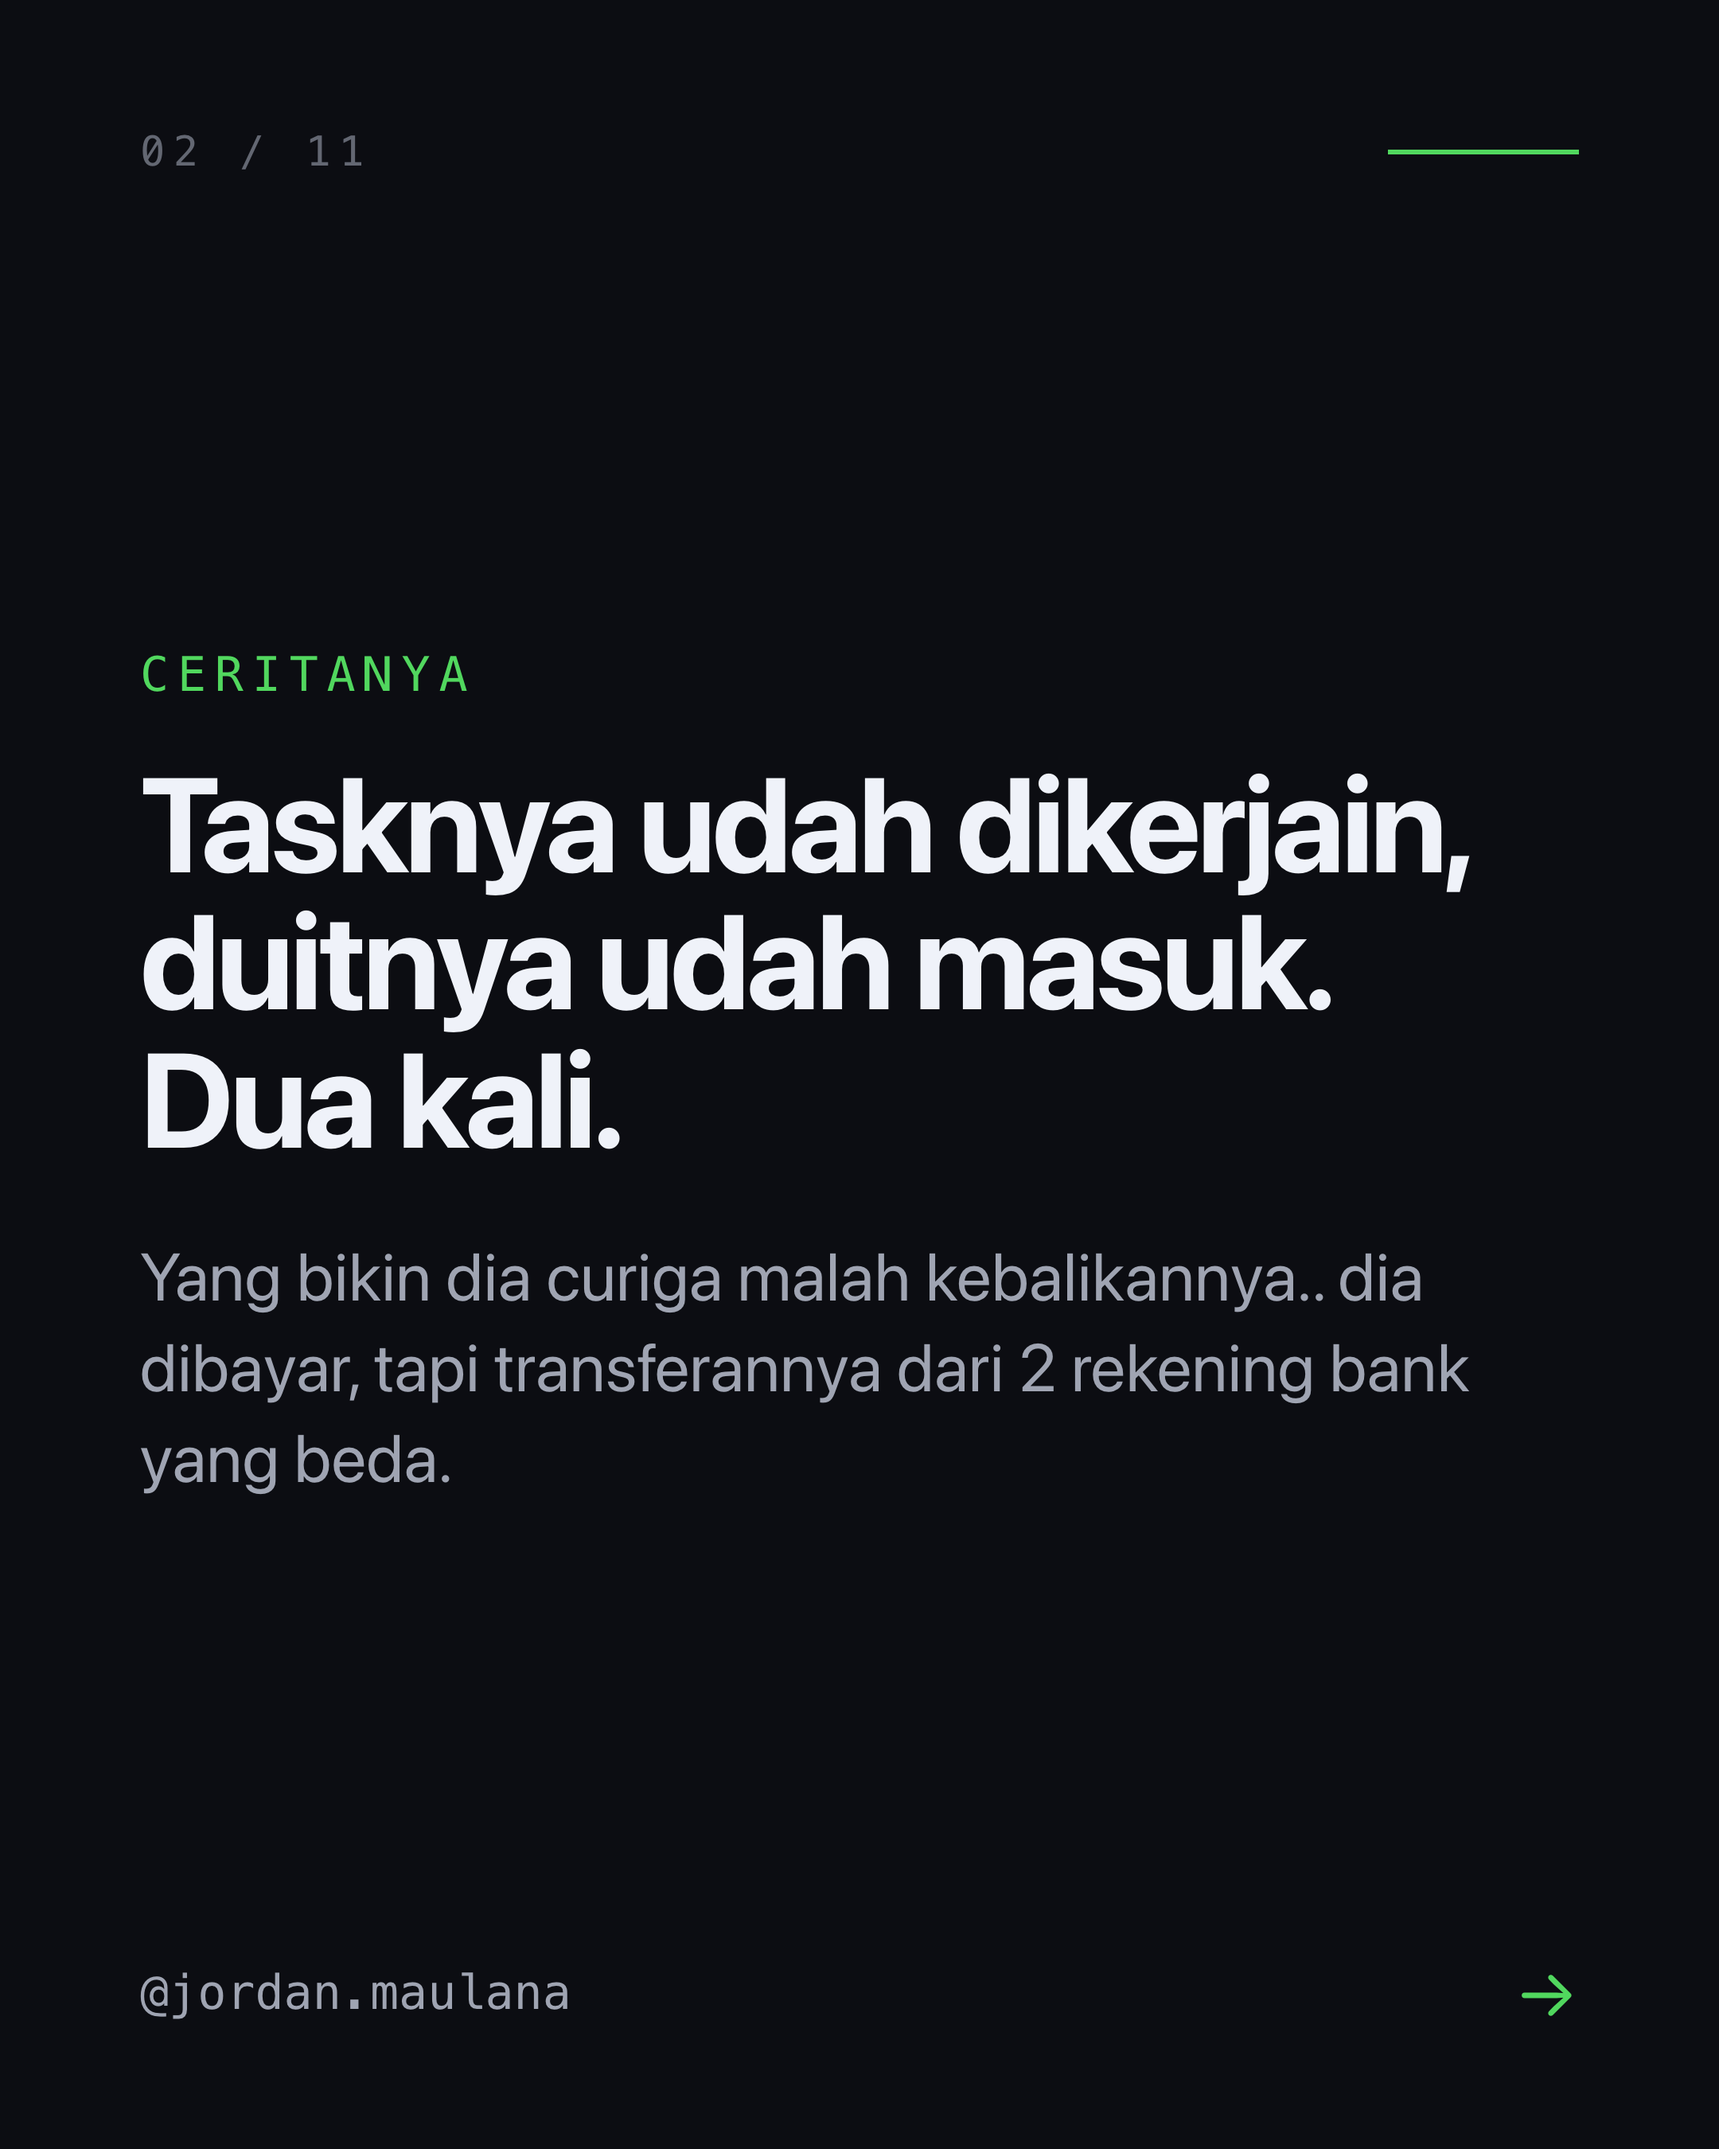
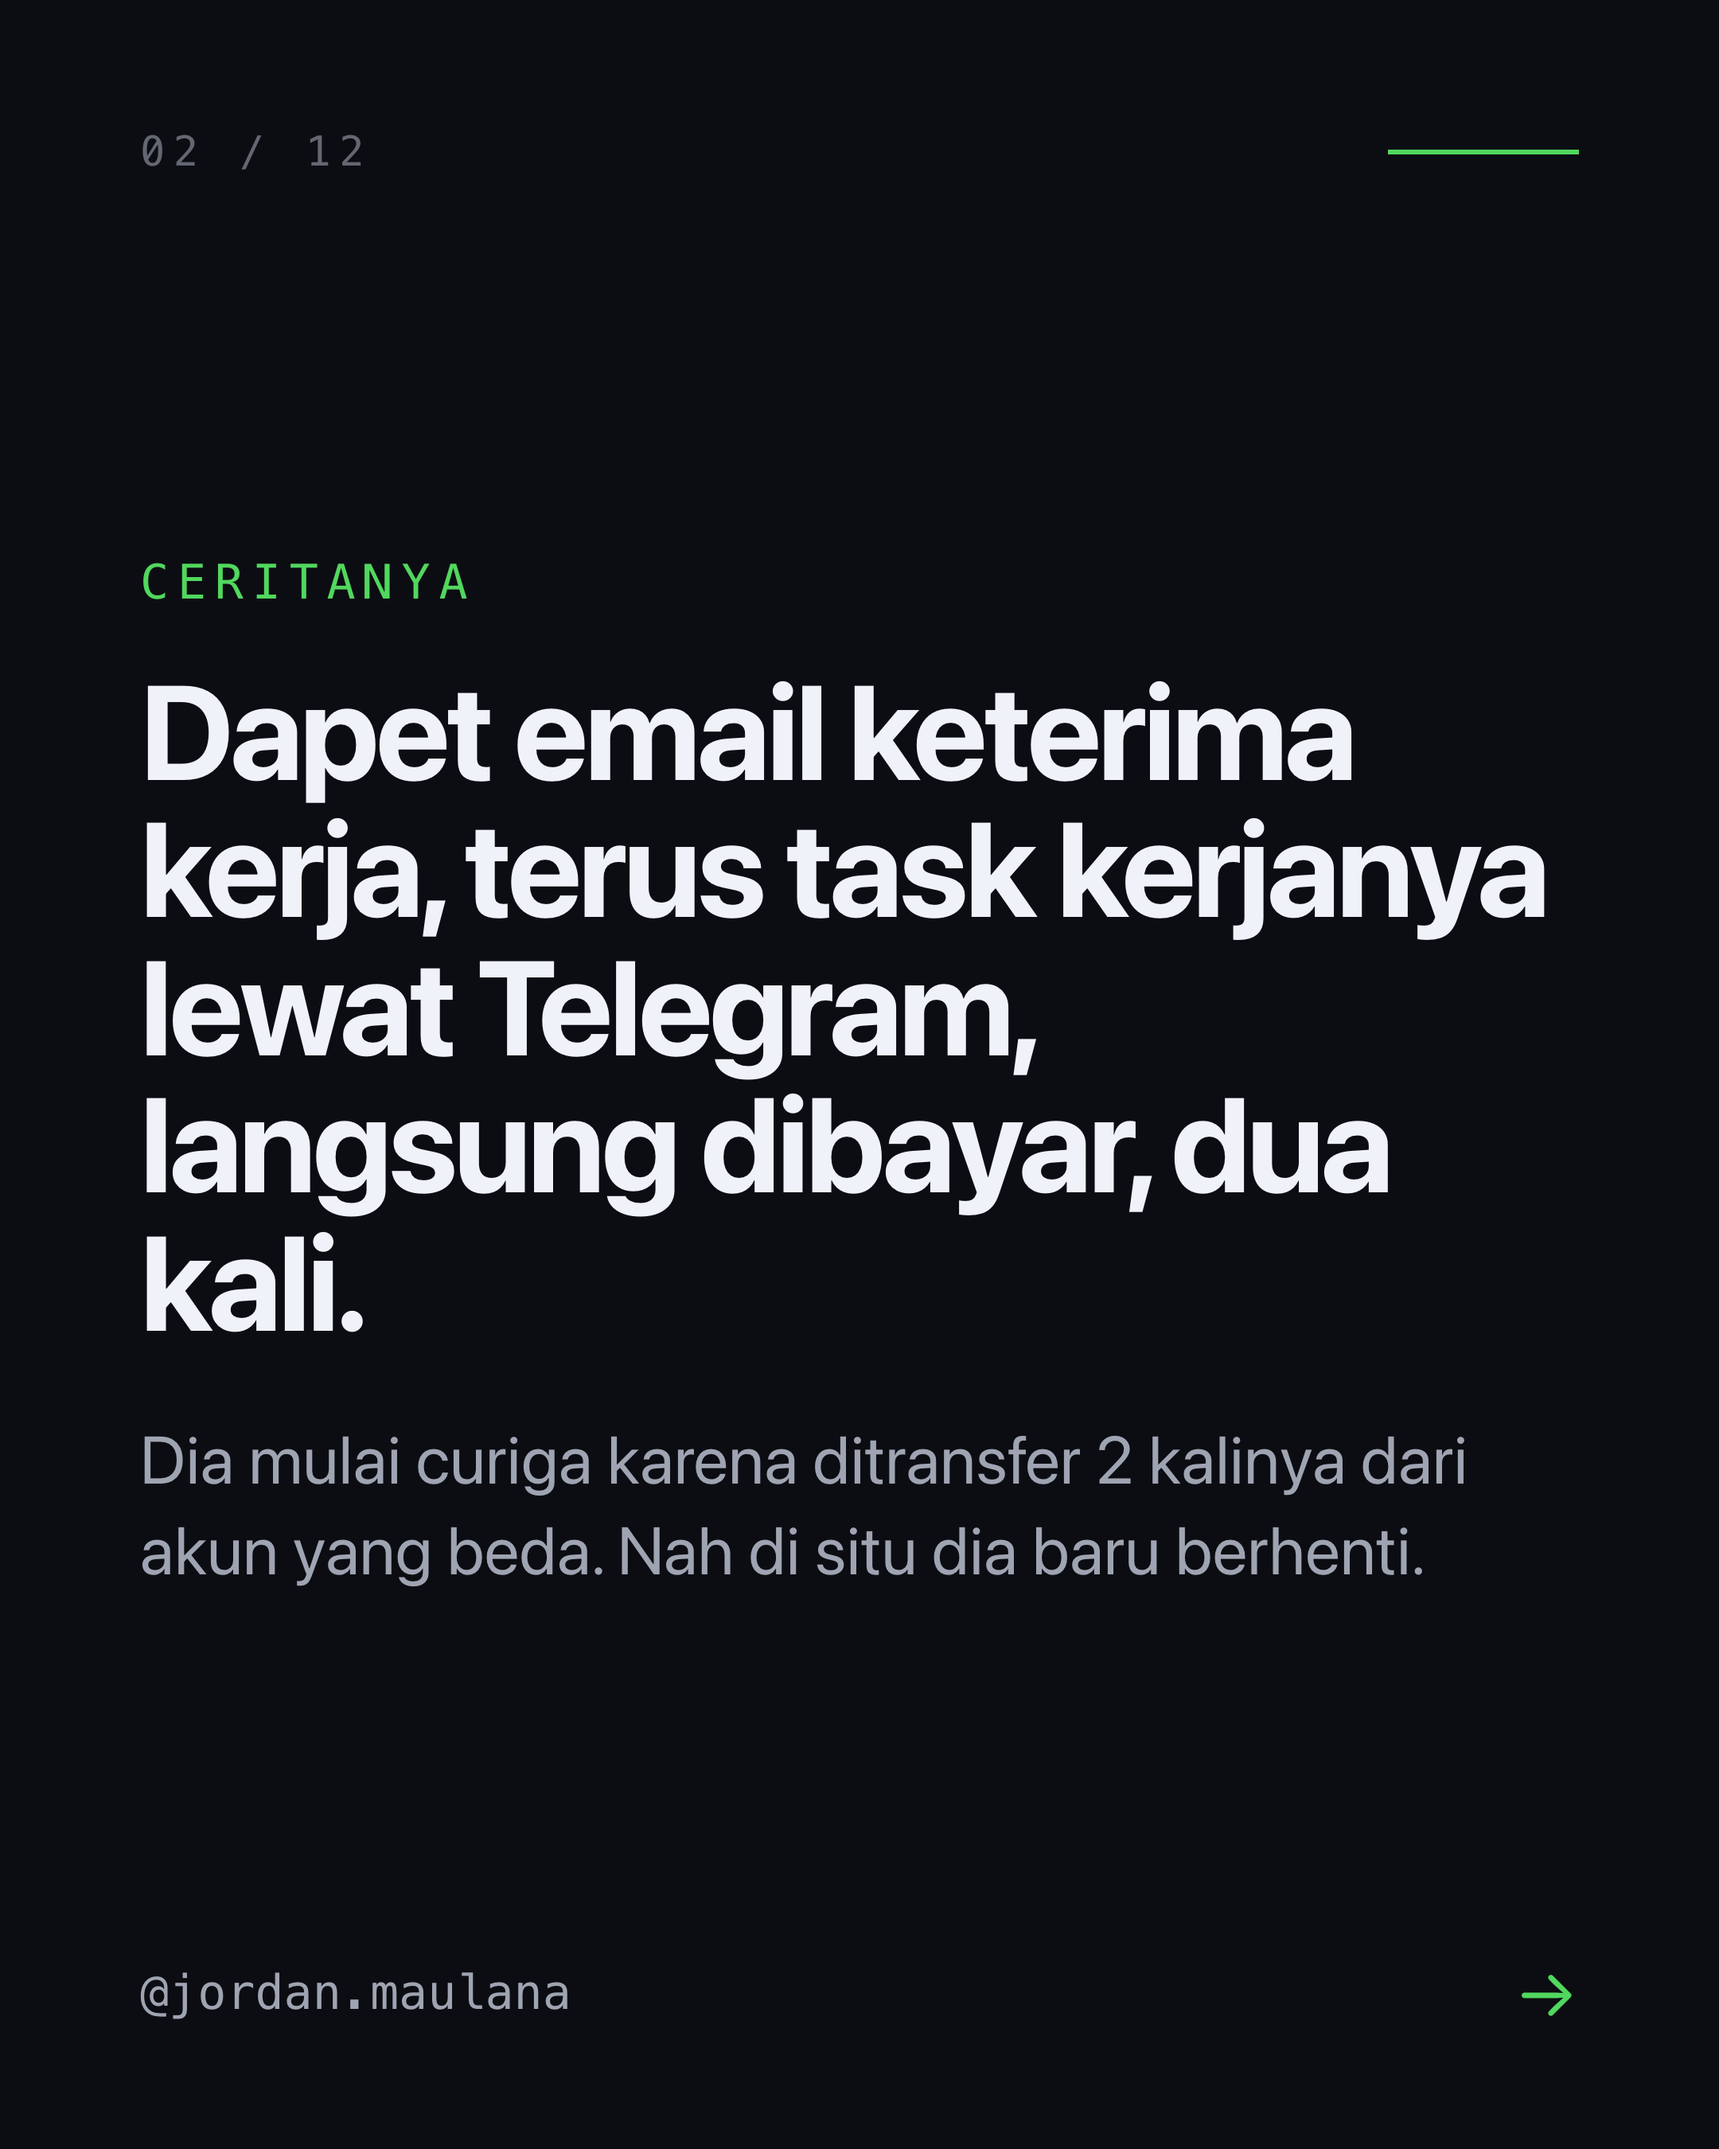
redone ai trainer slides

Changed region(s): [[0.062, 0.3111, 0.8995, 0.7467], [0.0931, 0.2489, 0.2792, 0.28]]

diff --git a/docs/voice.md b/docs/voice.md
@@ -1,0 +1,80 @@
+# Voice
+
+How Jordan writes. Anything published under his name — blog, carousel decks, product
+copy, marketing lines — follows this. Ground truth lives in
+[`src/content/blog/tutorial-resign.mdx`](../src/content/blog/tutorial-resign.mdx) and
+[`src/content/blog/scam-ai-trainer.mdx`](../src/content/blog/scam-ai-trainer.mdx). When
+this file and those posts disagree, the posts win.
+
+## The one rule
+
+**Source or silence.** Every line either exists in a file in this repo or came out of his
+mouth. When the raw material isn't there, ASK HIM. Do not infer, do not fill, do not
+"tighten". A slide with nothing to say gets deleted, not written.
+
+Derived copy (carousels, social posts) is *selection*, not composition. Pick which of his
+sentences survive. Compress by cutting whole clauses, not by rewriting them smoother.
+
+## Structure
+
+- Labels name a **situation**, never a benefit or a step number that carries no content.
+  Good: `Mendesak`, `Ada uang buat minimal 3 bulan`, `No risk`, `Kalo udah terlanjur`.
+  Bad: `Langkah 1`, `Kenapa ini penting`, `Tips #3`.
+- Verdicts are standalone ALL CAPS. `STAY` `RESIGN` `MUTLAK.` `BAHAYA`
+  `GA USAH DIBALIKIN` `JANGAN PERNAH KIRIM OTP`. Caps carry the emphasis — no bold, no
+  italics, no exclamation marks.
+- Sections are **asymmetric**. Zona 1 gets two lines; Zona 2 gets five and a quote. Never
+  pad a short section to match a long one.
+- **No CTA.** `tutorial-resign.mdx` ends on an asam-lambung joke; `scam-ai-trainer.mdx`
+  ends on "Gapapa." A piece with no ask is finished. A pointer to where the full thing
+  lives (`jordanmaulana.space`) is allowed; "follow for more" is not.
+
+## Sentence mechanics
+
+- Fragments are full beats: "Mutlak." / "Dua kali." / "Untung." / "Udah. Itu semua
+  keanehannya."
+- Ellipsis is **two dots**, mid-sentence: "Dapet email keterima kerja remote jadi AI
+  trainer.. tasknya udah dikerjain".
+- Informal spelling, always: `udah` `kalo` `ga` `gaada` `aja` `dapet` `gimana` `banget`
+  `sih` `emang` `nyambung` `bener` `kayak`. Never `tidak` / `sudah` / `bagaimana` unless
+  it's inside a quote he didn't write.
+- `kamu` for the reader, `aku` for himself.
+- Imagined dialogue does the arguing: `"Kamu N tahun kerja di situ kok skill-nya segitu
+  aja"`, `Mereka: "Naah dapet ini ikan 1"`.
+- Casing is his, not the style guide's. Lowercase list items stay lowercase
+  (`ditelpon nomer tak dikenal - block`). Shouted words stay shouted.
+
+## Humor and hedging
+
+This is the part that gets sanitized away first, and it is the part that proves a human
+wrote it. It survives compression before the explanation does.
+
+- `:v` deflates a hard claim — "Orang tuamu kaya :v", "belum pernah diceritain orang yang
+  udah kena scamnya :v"
+- 😂 marks an absurdity — "Terus disubmit ke Telegram ybs 😂"
+- Keysmash laugh: `WKWKKWKWKWKKWKWKW`
+- Throwaway dismissal: "Bodo amat~"
+- Admits not knowing: "Mungkiin. Aku sendiri ga tau sih"
+- Admits against self-interest: "faktanya aku belum ngerjain 1 pun karena males"
+
+## Banned patterns
+
+| Pattern | Why it's an AI tell |
+|---|---|
+| Hook-tease ("Justru itu masalahnya", "Ini yang bikin kaget") | He states the fact; he never withholds it for a beat |
+| Follow / save / share CTA | Loudest tell there is. Not in any post |
+| Symmetric listicle where the numbers add nothing | Machine-shaped scaffolding |
+| Punchline-ectomy — keeping the reasoning, cutting the joke | Leaves the skeleton of an argument, which is exactly what a machine outputs |
+| Merging two of his paragraphs into one balanced sentence | His rhythm is the content |
+| Normalizing his casing or spelling | See above |
+| Invented statistics ("lamar 200 loker, dibales 3") | Never fabricate numbers |
+| Guru aphorism ("zona nyaman = jebakan") | He explains mechanisms, not maxims |
+| Any line not traceable to a source file | Violates the one rule |
+
+## Self-check before shipping copy
+
+1. Point every line at its source line in the `.mdx`. Un-pointable line → delete it.
+2. Count the jokes. At least one per third of the piece survived? If zero, it's been
+   sanitized — go back and restore them.
+3. Read it out loud. Anything you'd never say to a friend on WhatsApp gets cut.
+4. Is there an ask at the end that wasn't in the source? Delete it.

diff --git a/CLAUDE.md b/CLAUDE.md
@@ -64,3 +64,4 @@ React is only used for small interactive bits — keep `.tsx` files focused on s
 - The `materials/` directory is **seed material only**; it is not read at build time. Edit files under `src/content/` and `src/data/` instead.
 - About-page content and socials are structured TypeScript in [`src/data/about.ts`](src/data/about.ts) and [`src/data/socials.ts`](src/data/socials.ts) — not MDX.
 - `sharp` is a direct dependency for Astro's image pipeline (used by the `lapak` collection's `image()` schema and the prefetched OG images).
+- Copy voice — blog, carousel decks, marketing lines — is governed by [`docs/voice.md`](docs/voice.md). Rule is **source or silence**: every published line traces to a file in this repo or to Jordan's own words. Never smooth, never invent, never bolt on a CTA.
